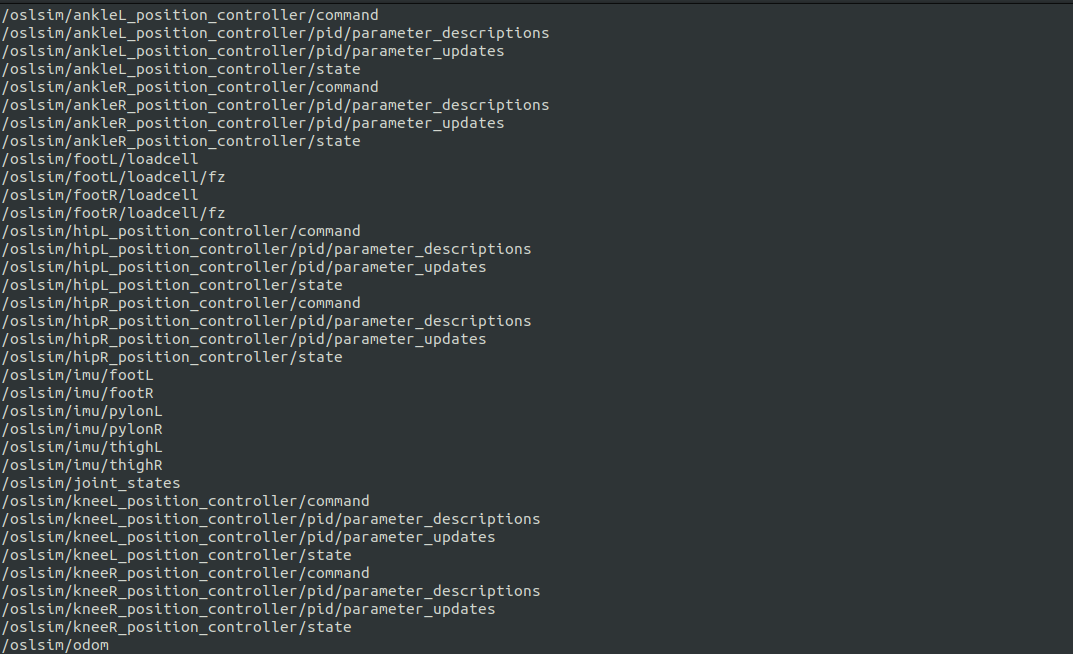
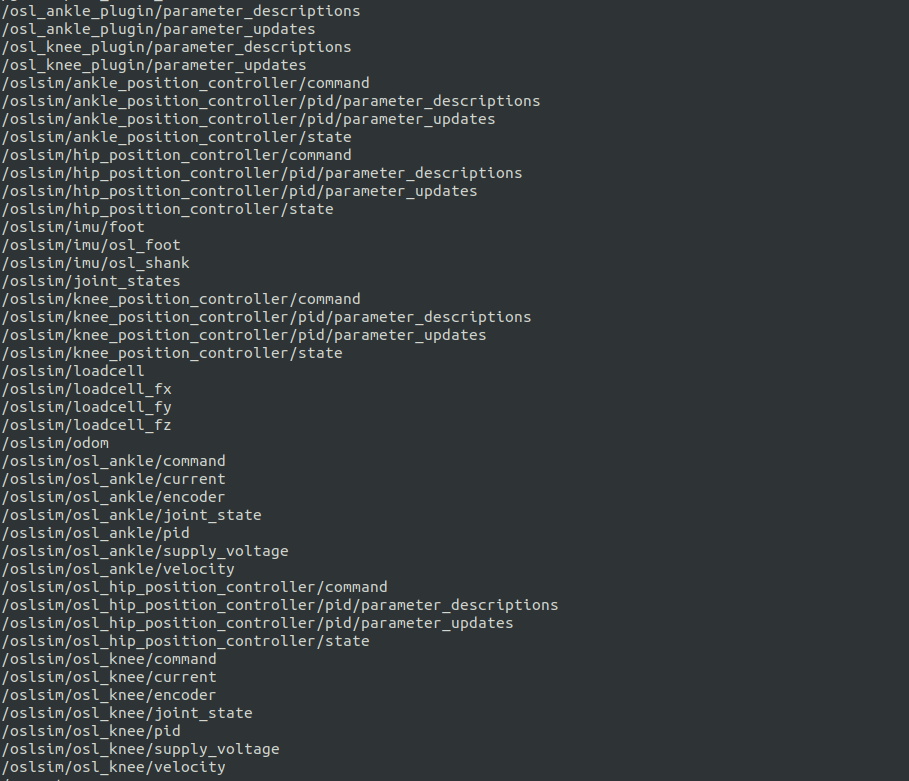
Added dyn-reconf.

Changed region(s): [[0.0, 0.0, 0.6161, 1.0]]

diff --git a/README.md b/README.md
@@ -20,9 +20,10 @@ $ sudo apt-get install ros-melodic-effort-controllers
 ```
 *Preferred **\<ros-distro\>**: ``melodic``*. If you are new to **ROS**, read more about [Configuring your ROS environment](http://wiki.ros.org/ROS/Tutorials/InstallingandConfiguringROSEnvironment).
 
-Build the package in your catkin workspace.
+Build the package along with [Gazebo ROS motor plugins](https://github.com/nilseuropa/gazebo_ros_motors) in your catkin workspace.
 ```
 $ cd <catkin-workspace>/src
+$ git clone https://github.com/nilseuropa/gazebo_ros_motors
 $ git clone https://github.com/homebrew-bionics/oslsim.git
 $ cd ../
 $ catkin_make
@@ -37,6 +38,16 @@ The Open-source Leg (OSL) model depicted in this package comprises
 * 2 Inertial Measurement Units (IMU)
 * 2 Rotary encoders
 * a Load cell
+
+## Motor configuration
+
+Parameters are loaded from **yaml** files (``osl_knee.yaml`` and ``osl_ankle.yaml``). They can also be set through dynamic reconfiguration server,
+```
+$ rqt
+
+>> Plugins >> Configuration >> Dynamic reconfigure
+```
+<img src="./dyn_reconf.gif" width="840">
 
 ## Topics
 <img src="./topics.png" width="840">
